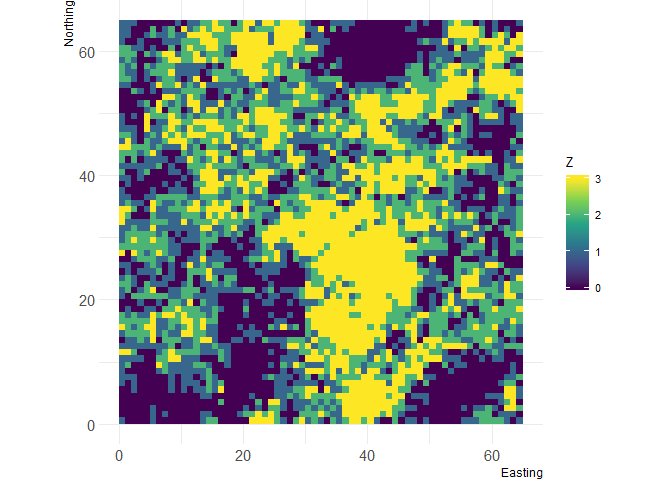
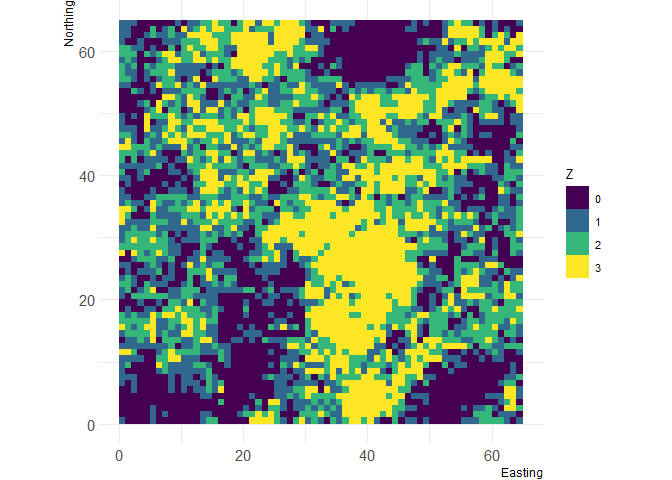
update parameter names for clarity

Changed region(s): [[0.8438, 0.3438, 0.9062, 0.625]]

diff --git a/README.md b/README.md
@@ -61,10 +61,15 @@ is included as a column on the grid `sf` object.
 ``` r
 library(grainchanger)
 library(ggplot2)
+#> Registered S3 methods overwritten by 'ggplot2':
+#>   method         from 
+#>   [.quosures     rlang
+#>   c.quosures     rlang
+#>   print.quosures rlang
 library(landscapetools)
 
 # categorical landscape
-show_landscape(cat_ls)
+show_landscape(cat_ls, discrete = TRUE)
 #> Loading required package: raster
 #> Loading required package: sp
 ```
@@ -74,12 +79,14 @@ show_landscape(cat_ls)
 ``` r
 
 # moving-window aggregation using Shannon evenness
-g_sf$mwda <- winmove_agg(g = g_sf,
-            dat = cat_ls, 
-            d = 5,
-            type = "rectangle",
-            fun = "shei",
-            lc_class = 0:3)
+g_sf$mwda <- winmove_agg(coarse_dat = g_sf,
+                         fine_dat = cat_ls, 
+                         d = 5,
+                         type = "rectangle",
+                         win_fun = "shei",
+                         agg_fun = "mean",
+                         lc_class = 0:3,
+                         quiet = TRUE)
 
 ggplot(g_sf) + geom_sf(aes(fill = mwda))
 ```
@@ -104,9 +111,9 @@ show_landscape(cont_ls)
 ``` r
 
 # direct aggregation using range
-g_sf$dda <- nomove_agg(g = g_sf,
-            dat = cont_ls, 
-            fun = "var_range")
+g_sf$dda <- nomove_agg(coarse_dat = g_sf,
+                       fine_dat = cont_ls, 
+                       fun = "var_range")
 
 ggplot(g_sf) + geom_sf(aes(fill = dda))
 ```
@@ -123,15 +130,12 @@ issue](https://github.com/laurajanegraham/grainchanger/issues) - doing
 it this way means we can maximise the speed of the
 function.
 
-| Function.Name | Description                                                                | Additional.arguments |
-| :------------ | :------------------------------------------------------------------------- | :------------------- |
-| wm\_prop      | Calculate the proportion of a given class within the moving window         | lc\_class (numeric)  |
-| wm\_classes   | Calculate the number of classes within the moving window                   |                      |
-| wm\_shei      | Calculate the Shannon evenness within the moving window                    | lc\_class (numeric)  |
-| wm\_mean      | Calculate the mean value within the moving window                          |                      |
-| nm\_shei      | Calculate the Shannon evenness within the larger cell                      | lc\_class (numeric)  |
-| nm\_prop      | Calculate the proportion of a given class within the larger cell           | lc\_class (numeric)  |
-| var\_range    | Calculate the range of values (can be used with or without a moving window |                      |
+| Function.Name | Description                               | Additional.arguments |
+| :------------ | :---------------------------------------- | :------------------- |
+| prop          | Calculate the proportion of a given class | lc\_class (numeric)  |
+| classes       | Calculate the number of classes           |                      |
+| shei          | Calculate the Shannon evenness            | lc\_class (numeric)  |
+| mean          | Calculate the range of values             |                      |
 
 ## Additional utilities
 
@@ -146,7 +150,7 @@ testing methods on simulated landscapes (such as those from
 ``` r
 torus <- create_torus(cat_ls, 5)
 
-show_landscape(torus)
+show_landscape(torus, discrete = TRUE)
 ```
 
 <img src="man/figures/README-torus-1.png" width="100%" />
